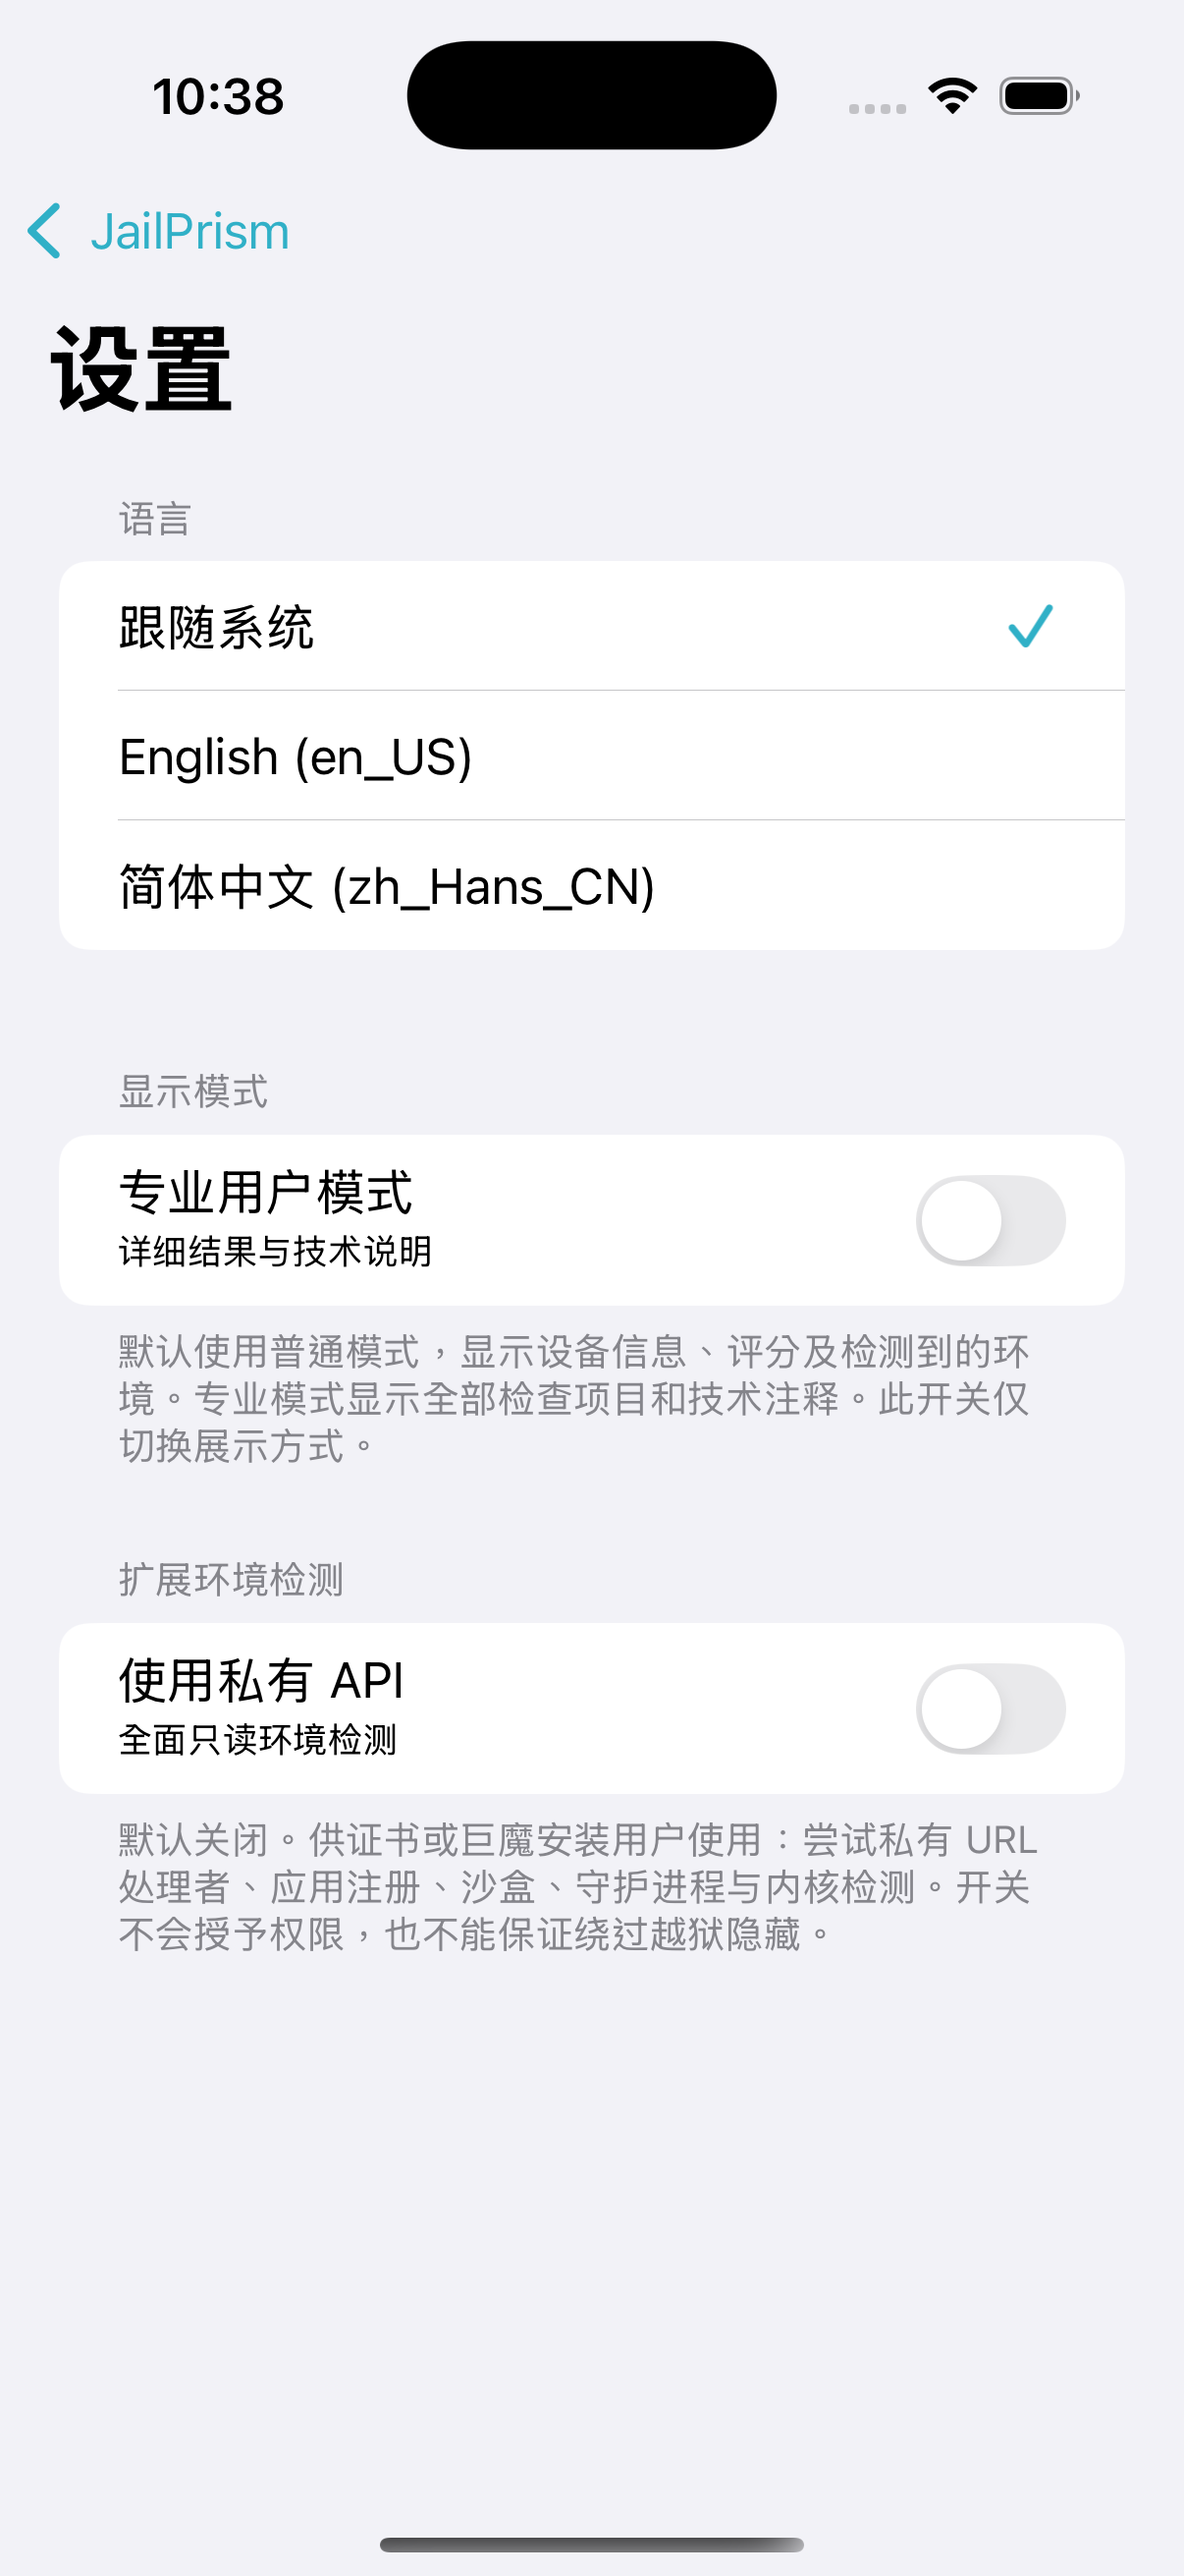
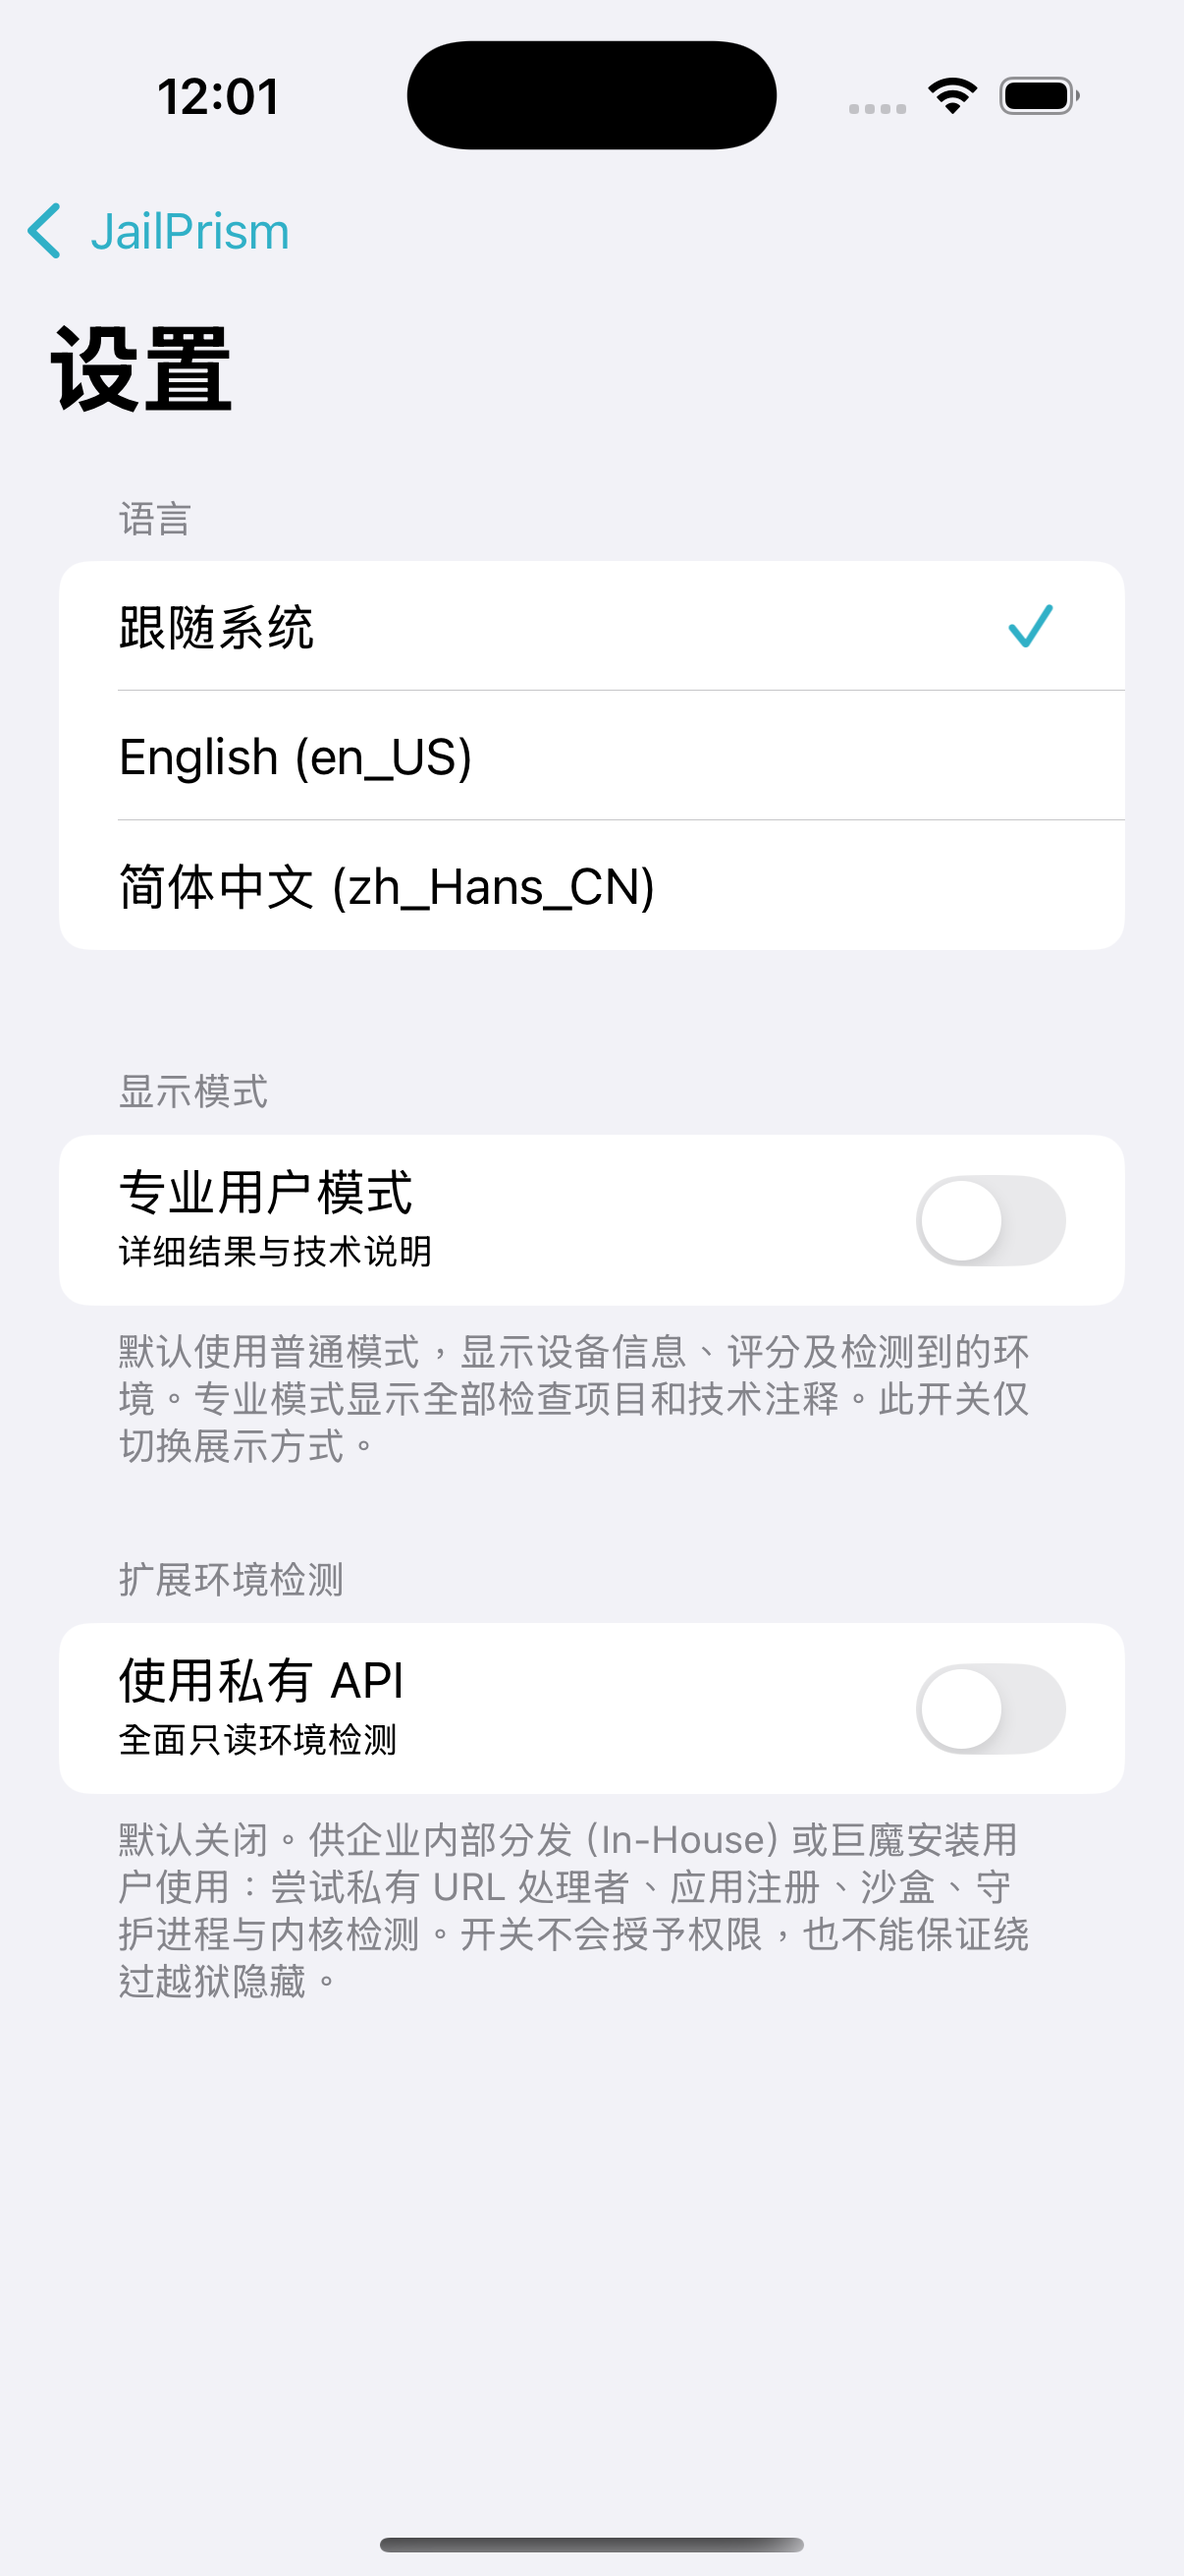
Update bilingual settings previews with Apple terminology

Changed region(s): [[0.092, 0.7105, 0.859, 0.7723], [0.1227, 0.0309, 0.2454, 0.0618]]

diff --git a/README_EN.md b/README_EN.md
@@ -39,11 +39,11 @@ The app uses UIKit and Objective-C without third-party code dependencies. Detect
   <tr>
     <td align="center"><img src="docs/images/results.png" width="220" alt="Normal mode: device information, score, environments and aligned name lists"></td>
     <td align="center"><img src="docs/images/professional.png" width="220" alt="Professional mode: checks, evidence, weights and technical notes"></td>
-    <td align="center"><img src="docs/images/settings.png" width="220" alt="Settings: language, professional mode and an independent private API switch"></td>
+    <td align="center"><img src="docs/images/settings-en.png" width="220" alt="English settings: language, professional mode and an independent private API switch"></td>
   </tr>
 </table>
 
-These simulator screenshots show the Chinese interface; English is also available in the app. The normal-mode screenshot uses explicitly marked UI fixture data to illustrate multiline names. The professional-mode screenshot uses actual simulator results, where physical-device checks are unknown. Screenshots do not demonstrate detection accuracy on a real device.
+These simulator screenshots show the main pages in Chinese and the settings page in English. The normal-mode screenshot uses explicitly marked UI fixture data to illustrate multiline names. The professional-mode screenshot uses actual simulator results, where physical-device checks are unknown. Screenshots do not demonstrate detection accuracy on a real device.
 
 ## Features
 
